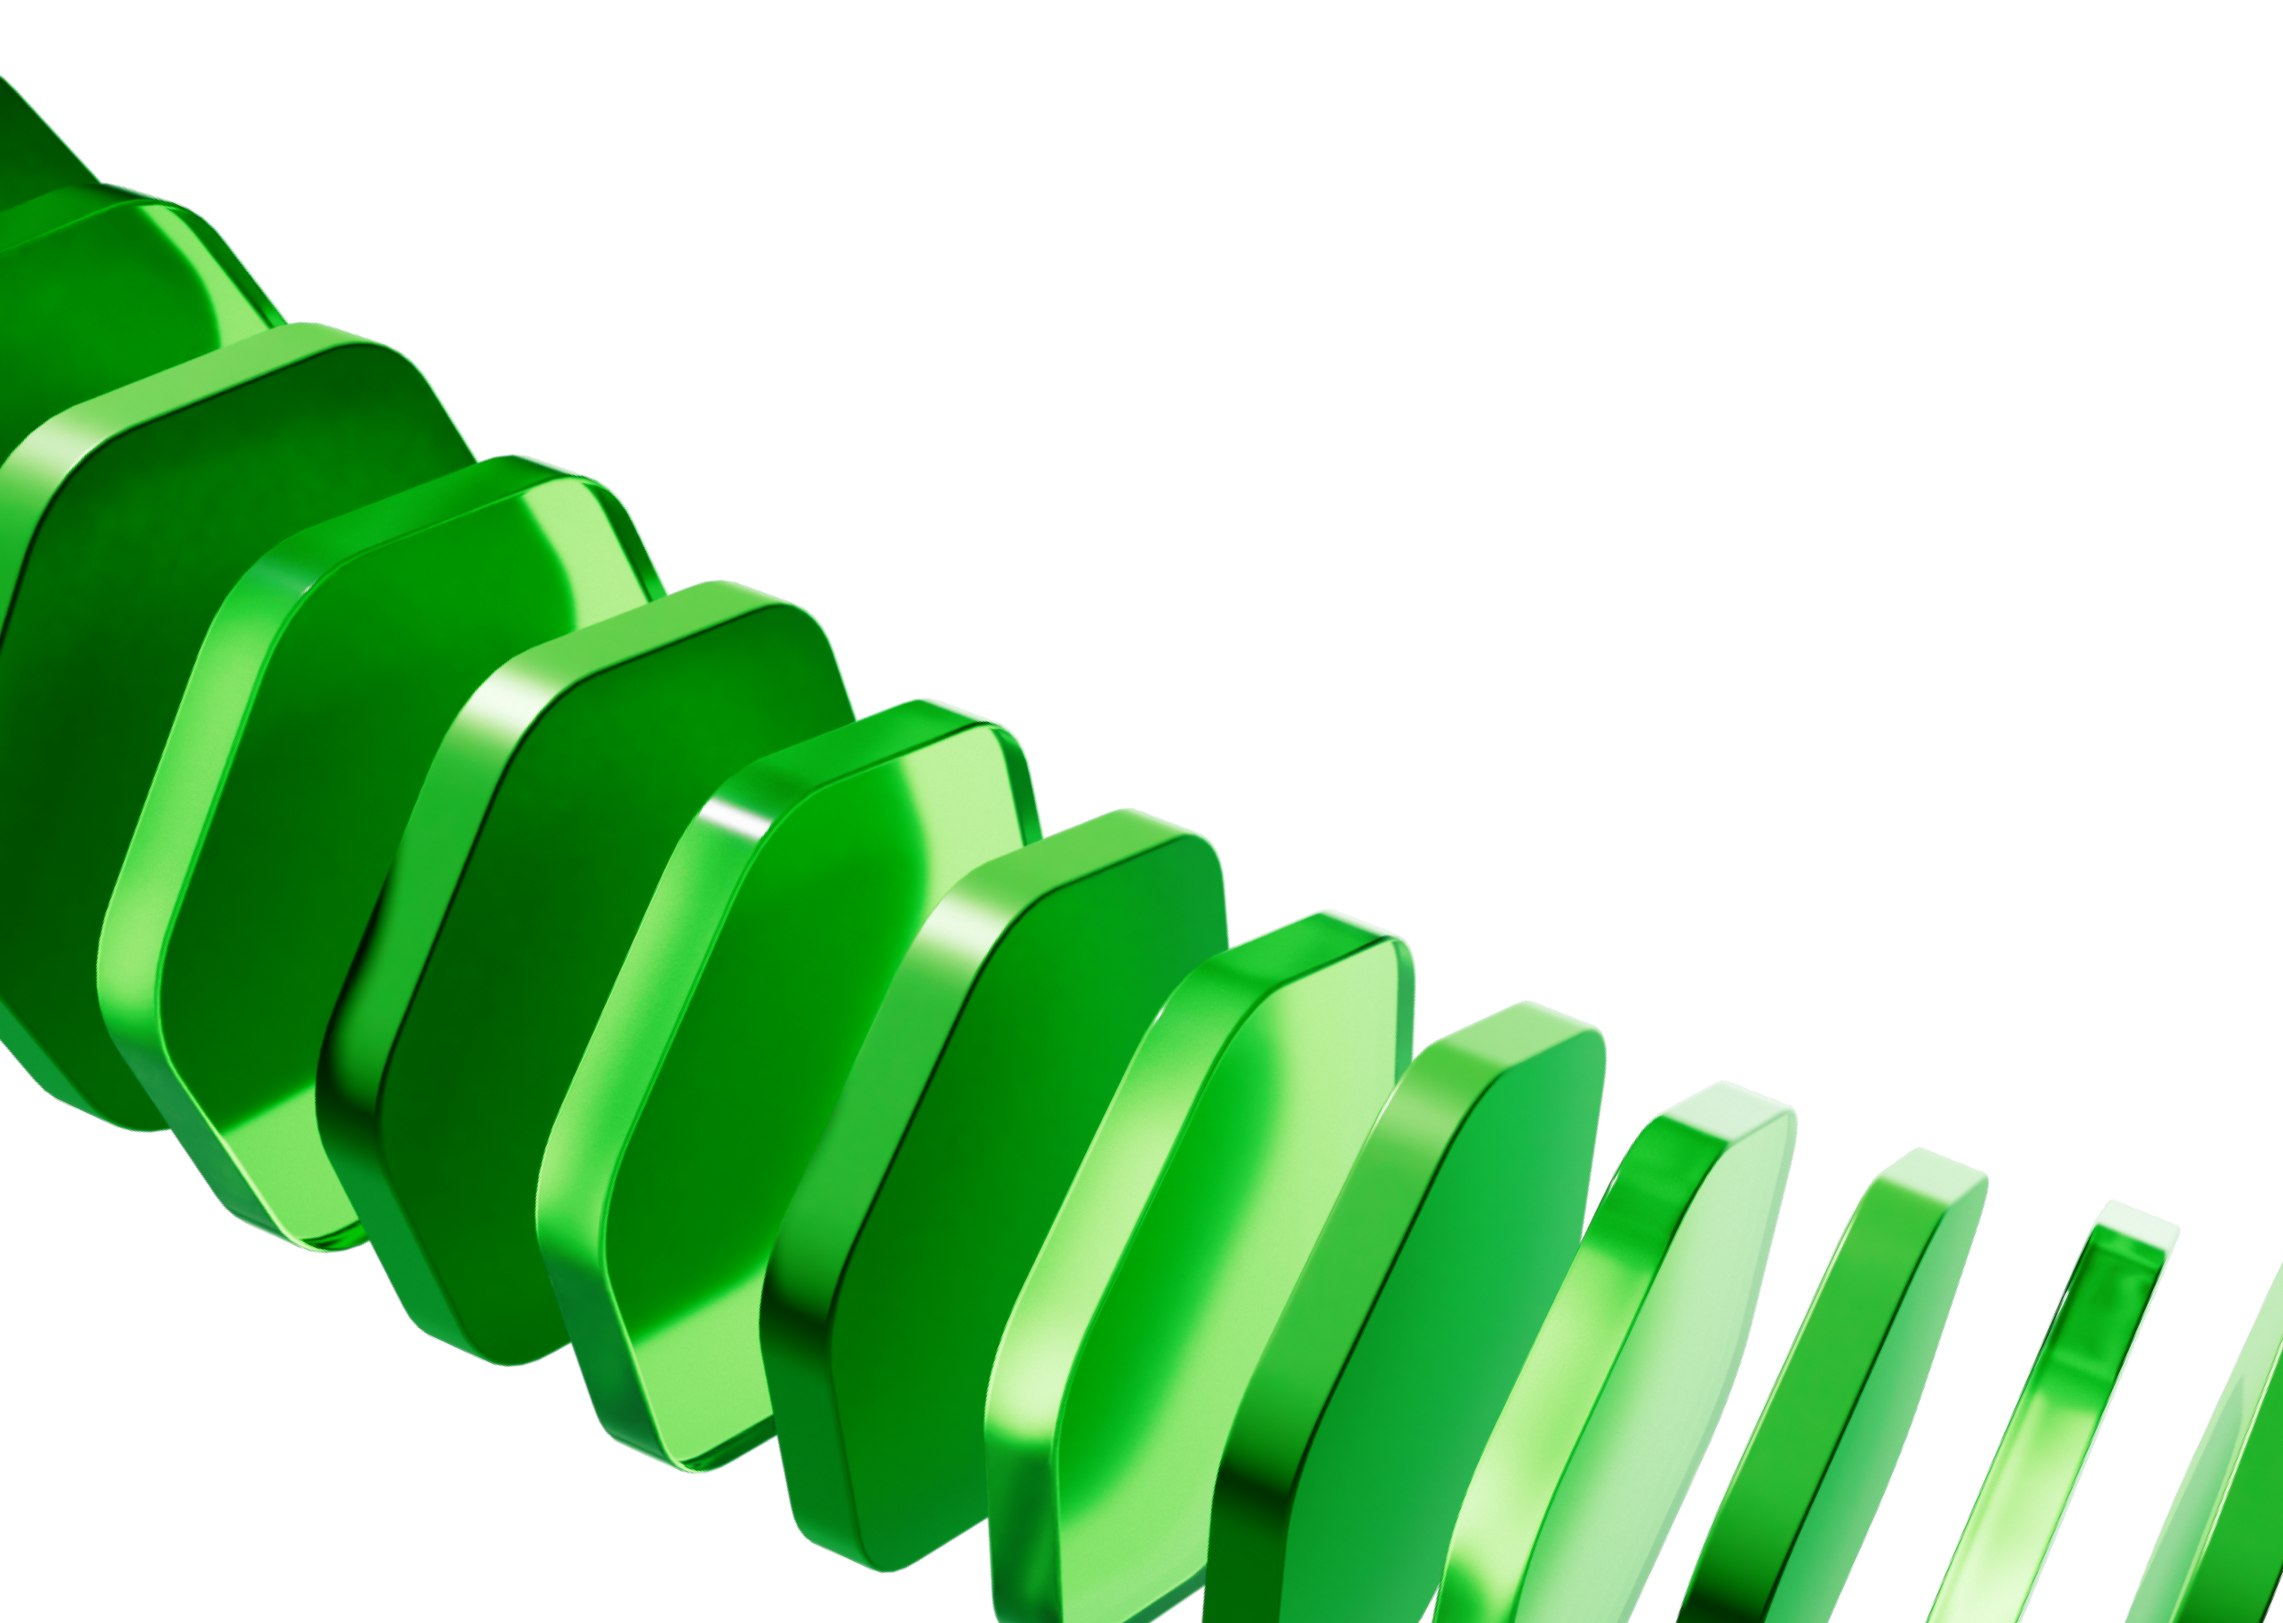
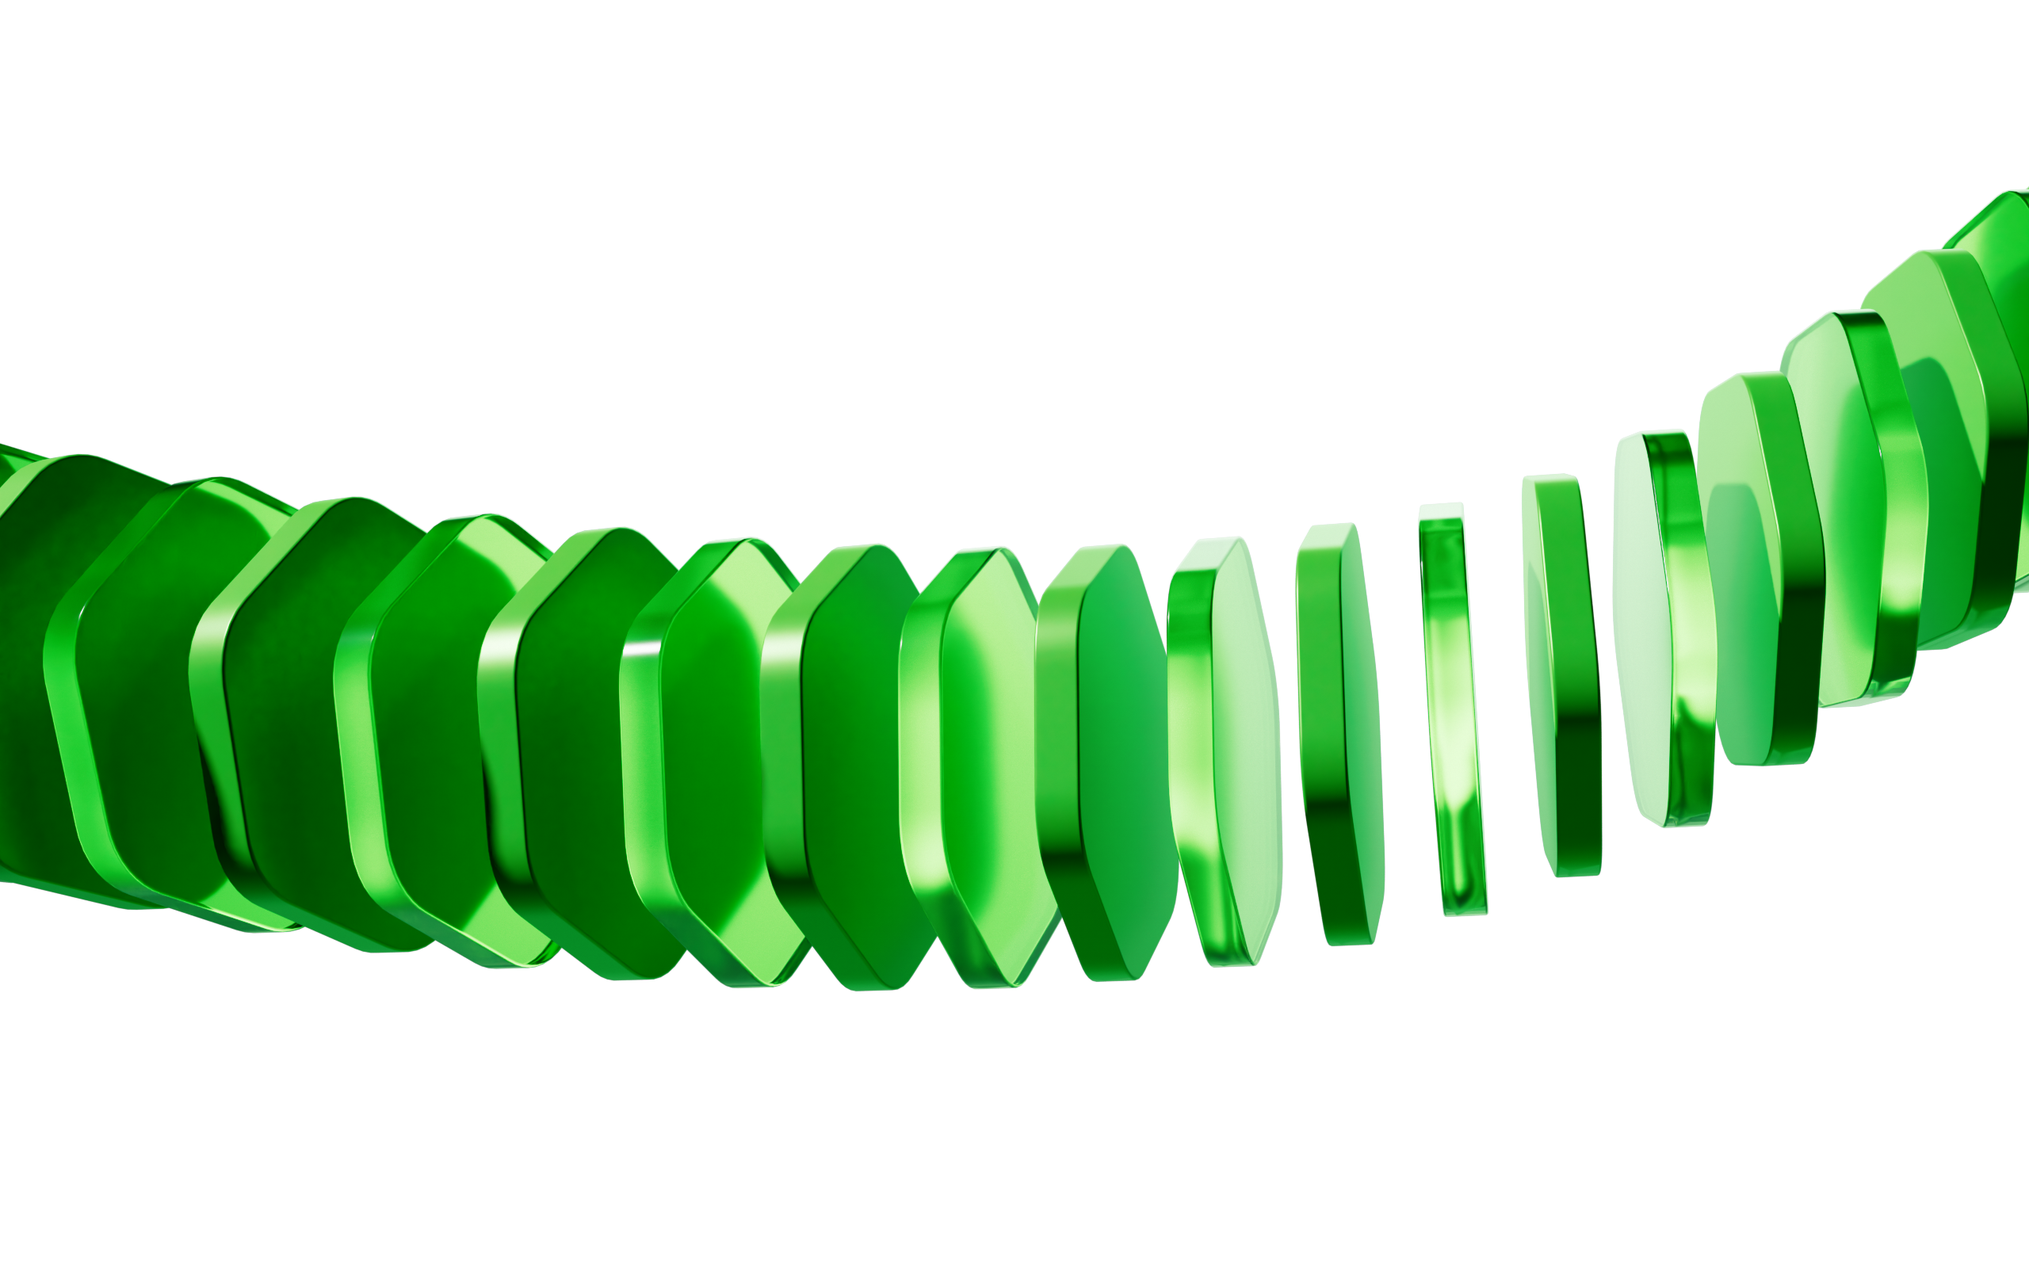
finished claim landing page

diff --git a/apps/main-landing/src/app/claim/page.tsx b/apps/main-landing/src/app/claim/page.tsx
@@ -6,18 +6,18 @@ import { backgroundLines2 } from '@/assets';
 import { Button } from '@idriss-xyz/ui/button';
 import idrissCoin from './IDRISS_COIN 1.png';
 import idrissSceneStream from './IDRISS_SCENE_STREAM_4_2 1.png';
+import { GradientBorder } from '@idriss-xyz/ui/gradient-border';
 
 export default function Claim() {
   return (
     <Providers>
       <TopBar />
+
       <main className="relative flex min-h-screen grow flex-col items-center justify-around gap-4 overflow-hidden bg-[radial-gradient(181.94%_192.93%_at_16.62%_0%,_#E7F5E7_0%,_#76C282_100%)] px-2 pb-1 pt-[56px] lg:flex-row lg:items-start lg:justify-center lg:px-0">
-        <Image
-          priority
-          src={idrissSceneStream}
-          className="pointer-events-none absolute z-1 lg:block"
-          alt=""
-        />
+        <img
+          src={idrissSceneStream.src}
+          className="pointer-events-none absolute left-[-310px] top-[-20px] z-1 h-[1440.673px] w-[2306.238px] min-w-[120vw] max-w-none rotate-[25.903deg] lg:block"
+        ></img>
         <Image
           priority
           src={backgroundLines2}
@@ -31,7 +31,12 @@ export default function Claim() {
               Check your eligibility and claim $IDRISS
             </span>
           </div>
-          <div className="flex w-full flex-col items-center gap-10 rounded-[36px] border border-[rgba(145,206,154,0.5)] bg-[rgba(255,255,255,0.5)] p-[40px_40px_60px_40px] backdrop-blur-[45px]">
+          <div className="relative flex w-full flex-col items-center gap-10 rounded-[25px] bg-[rgba(255,255,255,0.5)] p-[40px_40px_60px_40px] backdrop-blur-[45px]">
+            <GradientBorder
+              gradientDirection="toTop"
+              gradientStopColor="rgba(145, 206, 154, 0.50)"
+              borderWidth={1}
+            />
             <img className="size-[136px]" src={idrissCoin.src} />
             <div className="flex w-full flex-col items-center gap-2 rounded-[16px] border border-[var(--gradient-light-radial,#E7F5E7)] bg-[rgba(255,255,255,0.2)] px-10 py-8">
               <span className="text-body3 text-neutralGreen-700">
